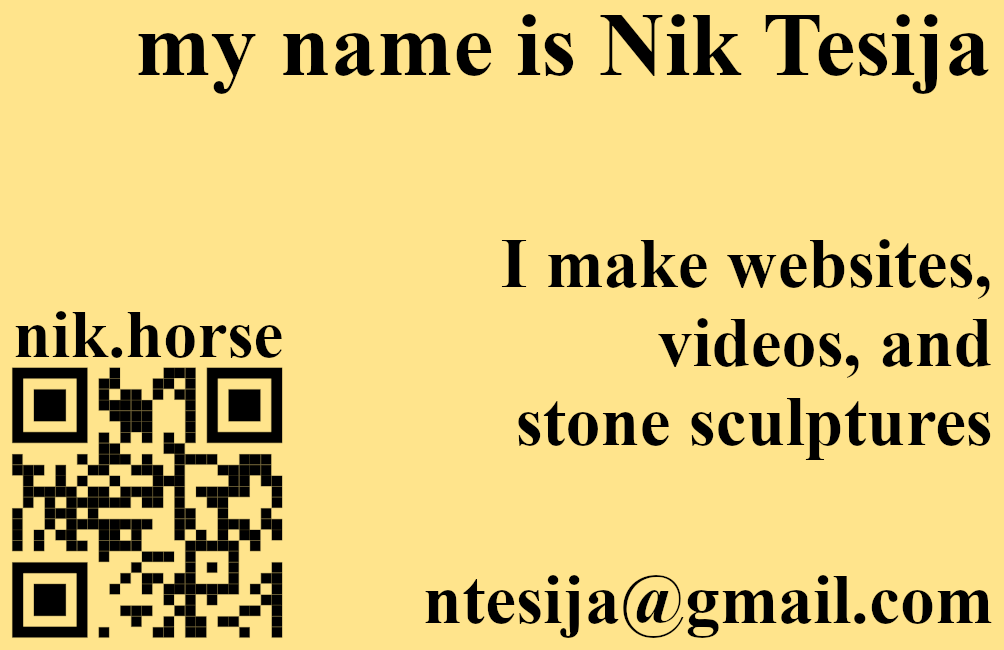
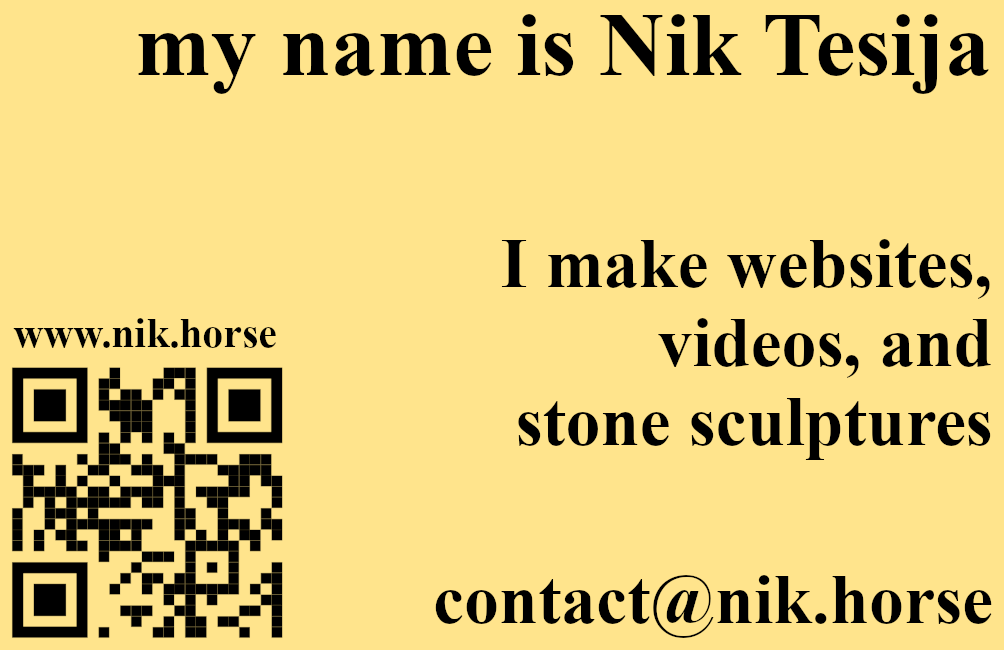
update email address

Changed region(s): [[0.4014, 0.8615, 0.988, 0.9846], [0.0, 0.4615, 0.2779, 0.5538]]

diff --git a/websites.html b/websites.html
@@ -21,8 +21,8 @@
 
    <p>
       do you like this website? do you want one for yourself? I can make you a website like this. please
-      <a href="mailto:ntesija+website@gmail.com?subject=i want a website like the one you made please"
-         target="_blank">e-mail me</a>
+      <a href="mailto:contact@nik.horse?subject=i want a website like the one you made please" target="_blank">e-mail
+         me</a>
       and I will work with you on making a website similar to this (or better!).
    </p>
 

diff --git a/index.html b/index.html
@@ -20,7 +20,7 @@
             <div class="icon-container">
                 <a href="https://www.instagram.com/niktesija/" target="_blank">instagram</a>
                 <a href="https://www.linkedin.com/in/nicholas-tesija/" target="_blank">linkedIn</a>
-                <a href="mailto:ntesija+website@gmail.com" target="_blank">e-mail me</a>
+                <a href="mailto:contact@nik.horse" target="_blank">e-mail me</a>
             </div>
         </div>
         <h2>things I do</h2>
